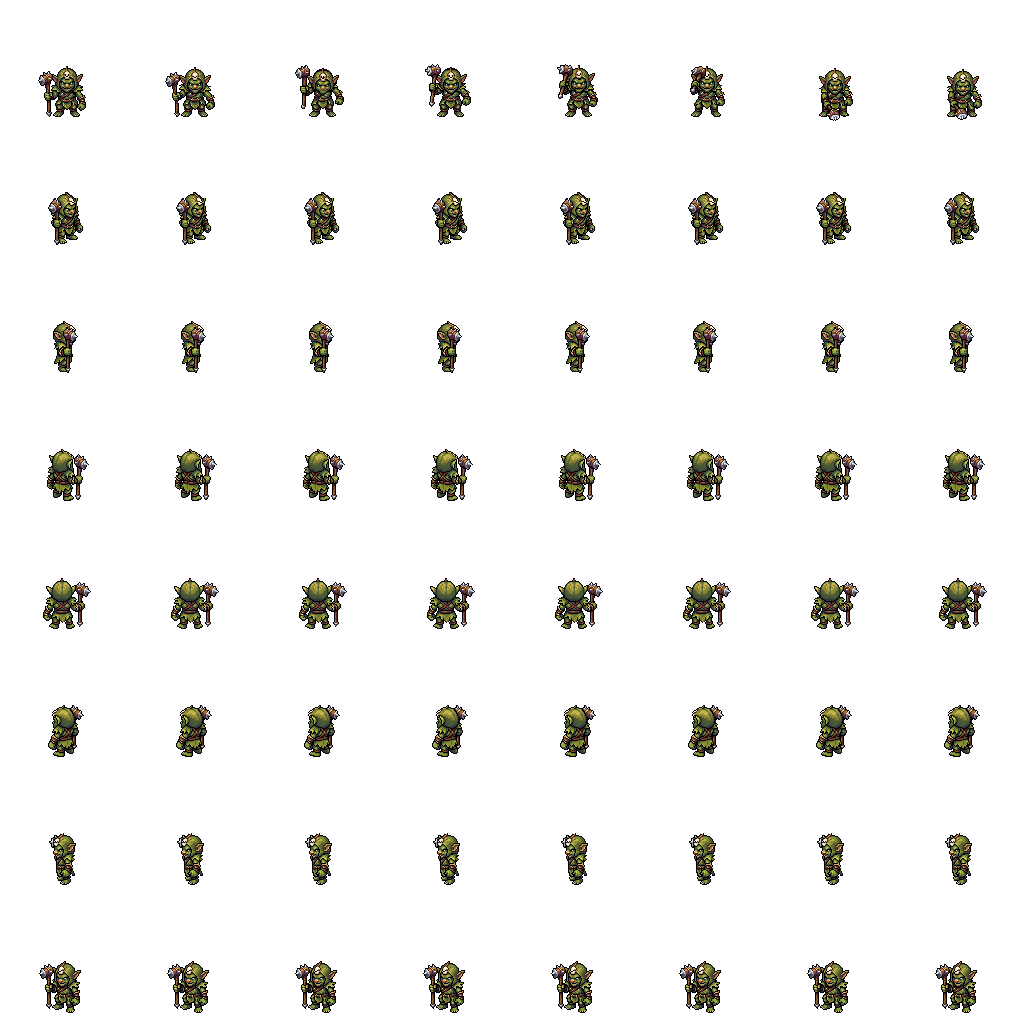
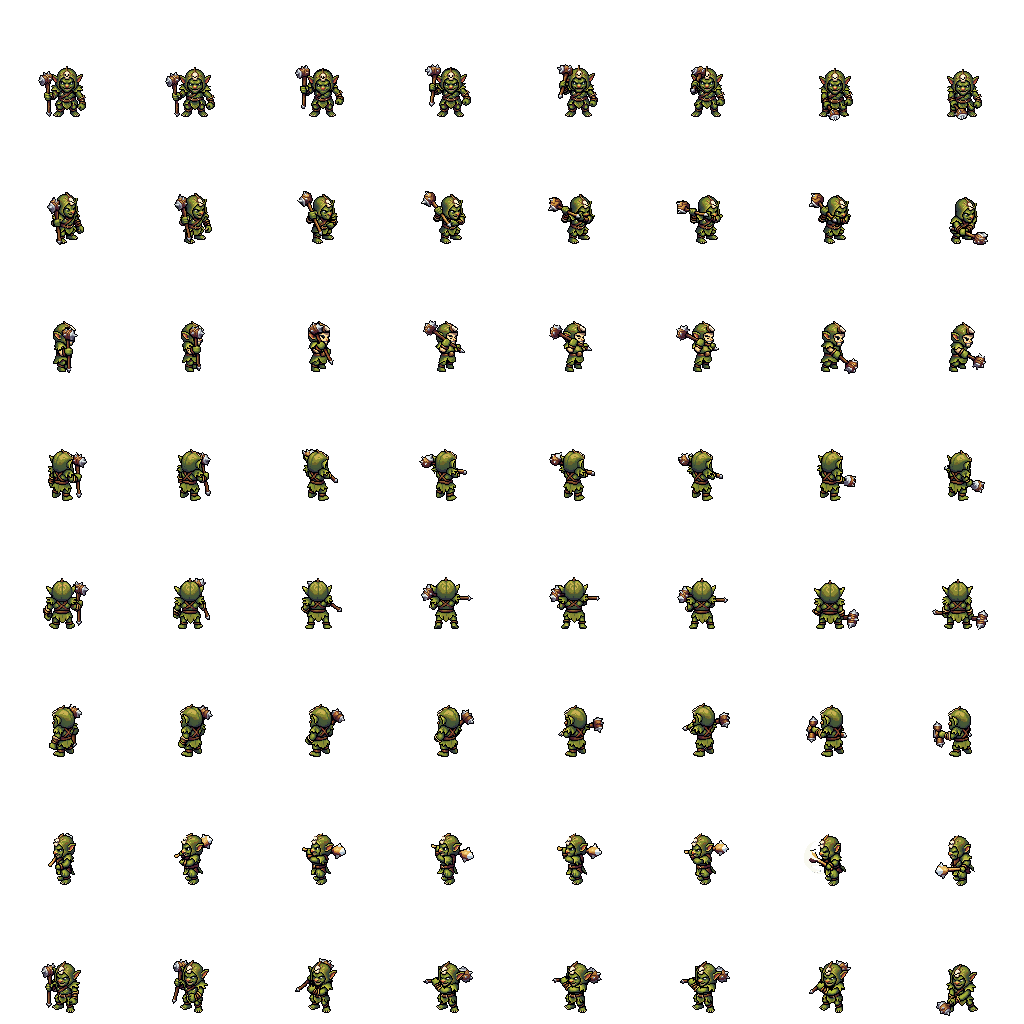
M5: 회전 베기(8방향 넘기기), 고블린 걷기·내려찍기 8방향, 주인공 대기 8방향
- spin 스킬 이벤트: 칼 뻗은 칸에 세운 채 8방향 그림을 궤적 순서대로 넘겨 한 바퀴 (월광참)
- 궤적 메시를 시작할 때 전부 미리 만든다 (처음 쓰는 순간 끊김 방지)
- 주인공 대기 8방향 (북쪽 두 칸은 칼이 사라져 옆 칸으로 덮음), 고블린 걷기(템플릿)·내려찍기 8방향
- 성능 A/B 스위치 --no=sfx, --no=sparks

diff --git a/scripts/Combat/CombatFx.cs b/scripts/Combat/CombatFx.cs
@@ -134,6 +134,16 @@ public partial class CombatFx : Node
         Lightning(at + Vector3.Down * 12f, 0.05f, Palettes["thunder"]);
         SparkleBurst(at + Vector3.Down * 3f, 4, 0.5f, Palettes["teal"]);
         Petals(at + Vector3.Down * 3f, Vector3.Forward, 4, 0.5f);
+        // 궤적 메시도 처음 쓰는 순간 만들면 그 프레임이 끊긴다 — 기본 공격·스킬에 나오는 모양을 전부 미리
+        foreach (var step in CombatTuning.Combo)
+        {
+            WarmArc(step.Reach, step.Heavy ? 170f : 200f, step.Heavy || step.Anim == "attack2");
+            WarmArc(step.Reach, 200f, false);
+        }
+        foreach (var def in Data.SkillDef.All.Values)
+            foreach (var ev in def.Events)
+                if (ev.Fx == "slash")
+                    WarmArc(ev.Radius, ev.Shape == "spin" ? 360f : ev.Arc, ev.Shape is "reverse" or "vertical");
         // 개발: --fxtest 로 번개 하나를 오래 세워 둔다 (그림 확인용)
         foreach (string a in OS.GetCmdlineUserArgs())
             if (a == "--fxtest")
@@ -178,8 +188,12 @@ public partial class CombatFx : Node
     // ── 월드 이펙트 ─────────────────────────────────────
 
     /// <summary>불꽃: 맞은 방향(dir)으로 튄다.</summary>
+    private static readonly bool NoSparks = Dev.DevCapture.Disabled().Contains("sparks");
+
     public static void Sparks(Vector3 at, Vector3 dir, Spark kind)
     {
+        if (NoSparks)
+            return;
         var e = _i._sparks[_i._nextSpark];
         _i._nextSpark = (_i._nextSpark + 1) % _i._sparks.Count;
         var pm = (ParticleProcessMaterial)e.ProcessMaterial;
@@ -412,6 +426,13 @@ public partial class CombatFx : Node
             if (b.Age >= b.Life)
                 b.Live = b.Mesh.Visible = false;
         }
+    }
+
+    private void WarmArc(float radius, float arcDeg, bool reverse)
+    {
+        var key = (radius, arcDeg, reverse);
+        if (!_arcs.ContainsKey(key))
+            _arcs[key] = ArcMesh(radius, arcDeg, reverse);
     }
 
     private Pooled MakePooled(ShaderMaterial slash, StandardMaterial3D star)

diff --git a/scripts/Combat/Hero.cs b/scripts/Combat/Hero.cs
@@ -264,6 +264,12 @@ public partial class Hero : CharacterBody3D, IPlayerContext
                 _lastStepFrame = -1;
             }
         }
+        if (_spinLeft > 0f)
+        {
+            _spinLeft -= dt;
+            int step = Mathf.Min(7, (int)((1f - _spinLeft / _spinTime) * 8f));
+            _sprite.Dir = _spinLeft > 0f ? (_spinDir0 + 4 + step) % 8 : _spinDir0;
+        }
         _flash = Mathf.MoveToward(_flash, 0f, (float)delta * 6f);
         // 무적 동안 깜빡인다
         bool blink = _iframes > 0f && _state != State.Dash && Mathf.PosMod(_iframes, 0.12f) < 0.05f;
@@ -458,6 +464,25 @@ public partial class Hero : CharacterBody3D, IPlayerContext
         return true;
     }
 
+    private string _spinAnim;
+    private int _spinFrame, _spinDir0;
+    private float _spinTime, _spinLeft;
+
+    /// <summary>
+    /// 회전 베기: 칼을 뻗은 칸에 세운 채 8방향 그림을 차례로 넘겨 한 바퀴 돈다 (젤다식).
+    /// 등 뒤에서 시작해 오른쪽 → 앞 → 왼쪽 — 회전 궤적(CombatFx.Slash spin)이 쓸고 가는 순서와 같다.
+    /// </summary>
+    public void Spin(string anim, int frame, float time)
+    {
+        if (!_sprite.Has(anim))
+            return;
+        _spinAnim = anim;
+        _spinFrame = frame;
+        _spinTime = _spinLeft = Mathf.Max(time, 0.05f);
+        _spinDir0 = _sprite.Dir;
+        _sprite.Hold(anim, frame);
+    }
+
     // ── 회피 ────────────────────────────────────────────
 
     private void StartDash(Vector3 wish)
@@ -618,7 +643,8 @@ public partial class Hero : CharacterBody3D, IPlayerContext
 
     private Vector3 FacingVector()
     {
-        float a = Mathf.DegToRad(_sprite.Dir * 45f);
+        // 회전 베기 중에는 그림만 돌고 몸이 보는 쪽은 그대로
+        float a = Mathf.DegToRad((_spinLeft > 0f ? _spinDir0 : _sprite.Dir) * 45f);
         return new Vector3(Mathf.Sin(a), 0f, Mathf.Cos(a));
     }
 

diff --git a/scripts/Render/CharacterSprite.cs b/scripts/Render/CharacterSprite.cs
@@ -114,6 +114,7 @@ public partial class CharacterSprite : Node3D
         if (anim == _anim && !restart)
             return;
         _keyed = false;
+        _holdFrame = -1;
         _anim = anim;
         _time = 0f;
         _frames = sheet.frames;
@@ -148,6 +149,18 @@ public partial class CharacterSprite : Node3D
     private bool _keyed;
     private int _keyStart, _keyFrame;
     private float _keyTime, _keyDuration;
+
+    /// <summary>한 칸에 멈춰 세운다 (회전 베기처럼 방향만 바꿔 가며 보여 줄 때).</summary>
+    public void Hold(string anim, int frame)
+    {
+        Play(anim, 0f, false, restart: true);
+        _keyed = false;
+        _time = 0f;
+        _holdFrame = Mathf.Clamp(frame, 0, _frames - 1);
+        Apply();
+    }
+
+    private int _holdFrame = -1;
 
     public void Advance(float dt)
     {
@@ -203,6 +216,8 @@ public partial class CharacterSprite : Node3D
                 ? _keyStart + (int)((_keyFrame - _keyStart) * _time / _keyTime)
                 : _keyFrame + (int)((_frames - _keyFrame) * (_time - _keyTime) / Mathf.Max(_keyDuration - _keyTime, 0.01f));
         }
+        if (_holdFrame >= 0)
+            f = _holdFrame;
         Frame = _loop ? f % _frames : Mathf.Min(f, _frames - 1);
         _mat.SetShaderParameter("frame", (float)(Dir * _frames + Frame));
     }

diff --git a/scripts/Data/SkillDef.cs b/scripts/Data/SkillDef.cs
@@ -30,7 +30,7 @@ public sealed class SkillDef
     {
         /// <summary>시작 후 몇 초에</summary>
         public float T { get; set; }
-        /// <summary>sfx / slash / ring / sparkle / petals / lightning / hit / dash / flash / shake / slow</summary>
+        /// <summary>sfx / slash / ring / sparkle / petals / lightning / hit / dash / flash / shake / slow / spin</summary>
         public string Fx { get; set; }
         // 쓰는 것만 채운다 — 나머지는 기본값
         public string Sound { get; set; }
@@ -48,6 +48,8 @@ public sealed class SkillDef
         public float Distance { get; set; }       // dash
         public float Time { get; set; } = 0.2f;   // dash 시간, slow 시간
         public float Amount { get; set; } = 0.5f; // flash 세기, shake 충격량, slow 배율
+        public string Anim { get; set; }          // spin: 멈춰 세울 동작
+        public int Frame { get; set; }            // spin: 그 동작의 칸 (칼을 뻗은 칸)
     }
 
     private static Dictionary<string, SkillDef> _all;

diff --git a/scripts/Core/Sfx.cs b/scripts/Core/Sfx.cs
@@ -22,6 +22,8 @@ public partial class Sfx : Node
     private readonly List<AudioStreamPlayer> _players = new();
     private int _next;
     private static readonly RandomNumberGenerator Rng = new();
+    /// <summary>--no=sfx : 성능 A/B 용</summary>
+    private static readonly bool Muted = Dev.DevCapture.Disabled().Contains("sfx");
 
     /// <summary>슬로우모션 때 켜는 먹먹함 (SFX 버스의 저역통과).</summary>
     public static AudioEffectLowPassFilter Muffle { get; private set; }
@@ -56,6 +58,8 @@ public partial class Sfx : Node
     public static void Play(string group, float db = 0f, float pitch = 1f, float jitter = 0.06f, string bus = "SFX")
     {
         var s = _instance;
+        if (Muted)
+            return;
         if (s == null || !s._groups.TryGetValue(group, out var list))
         {
             GD.PushWarning($"[Sfx] 없는 소리: {group}");

diff --git a/scripts/Combat/SkillRunner.cs b/scripts/Combat/SkillRunner.cs
@@ -114,6 +114,9 @@ public sealed class SkillRunner
             case "hit":
                 Hit(e, f, at);
                 break;
+            case "spin":
+                _hero.Spin(e.Anim, e.Frame, e.Time);
+                break;
             default:
                 GD.PushWarning($"[Skill] {_def.Id}: 모르는 이벤트 {e.Fx}");
                 break;

diff --git a/docs/design/REBUILD.md b/docs/design/REBUILD.md
@@ -50,6 +50,8 @@
 - 3박자: 예비(칼 당기는 소리·전기 모이는 반짝이) → 충돌(히트스톱·섬광·고리·판정 한 프레임) → 흩어짐(두 번째 고리·반짝이·꽃잎).
 - 스킬 3종: 월광참(회전 베기+달빛 고리), 벚꽃 난무(돌진 3연 베기+X 마무리+꽃잎), 뇌격(내려찍기+번개 두 줄기+충격파).
 - 키: Q·E·R (또는 U·I·O), 패드 Y·RB·RT. 칸 구성은 `data/player/loadout.json`.
+- 회전 베기는 새 그림 없이 8방향 그림을 차례로 넘긴다(젤다식, `spin` 이벤트) — PixelLab v3 는 몸을 돌리지 못했다.
+- 성능: 전투·스킬 중 중앙 9~11ms / p90 12ms. 3초에 한 프레임쯤 25~40ms 튀는 것이 남아 있다 (원인 미확정 — 효과음·불꽃을 꺼도 비슷).
 
 ## 단계
 - [x] M1 월드 기반: 픽셀 뷰·스냅 카메라, 지형·물·폭포·풀·하늘·낮밤, 소품 배치, 60fps
